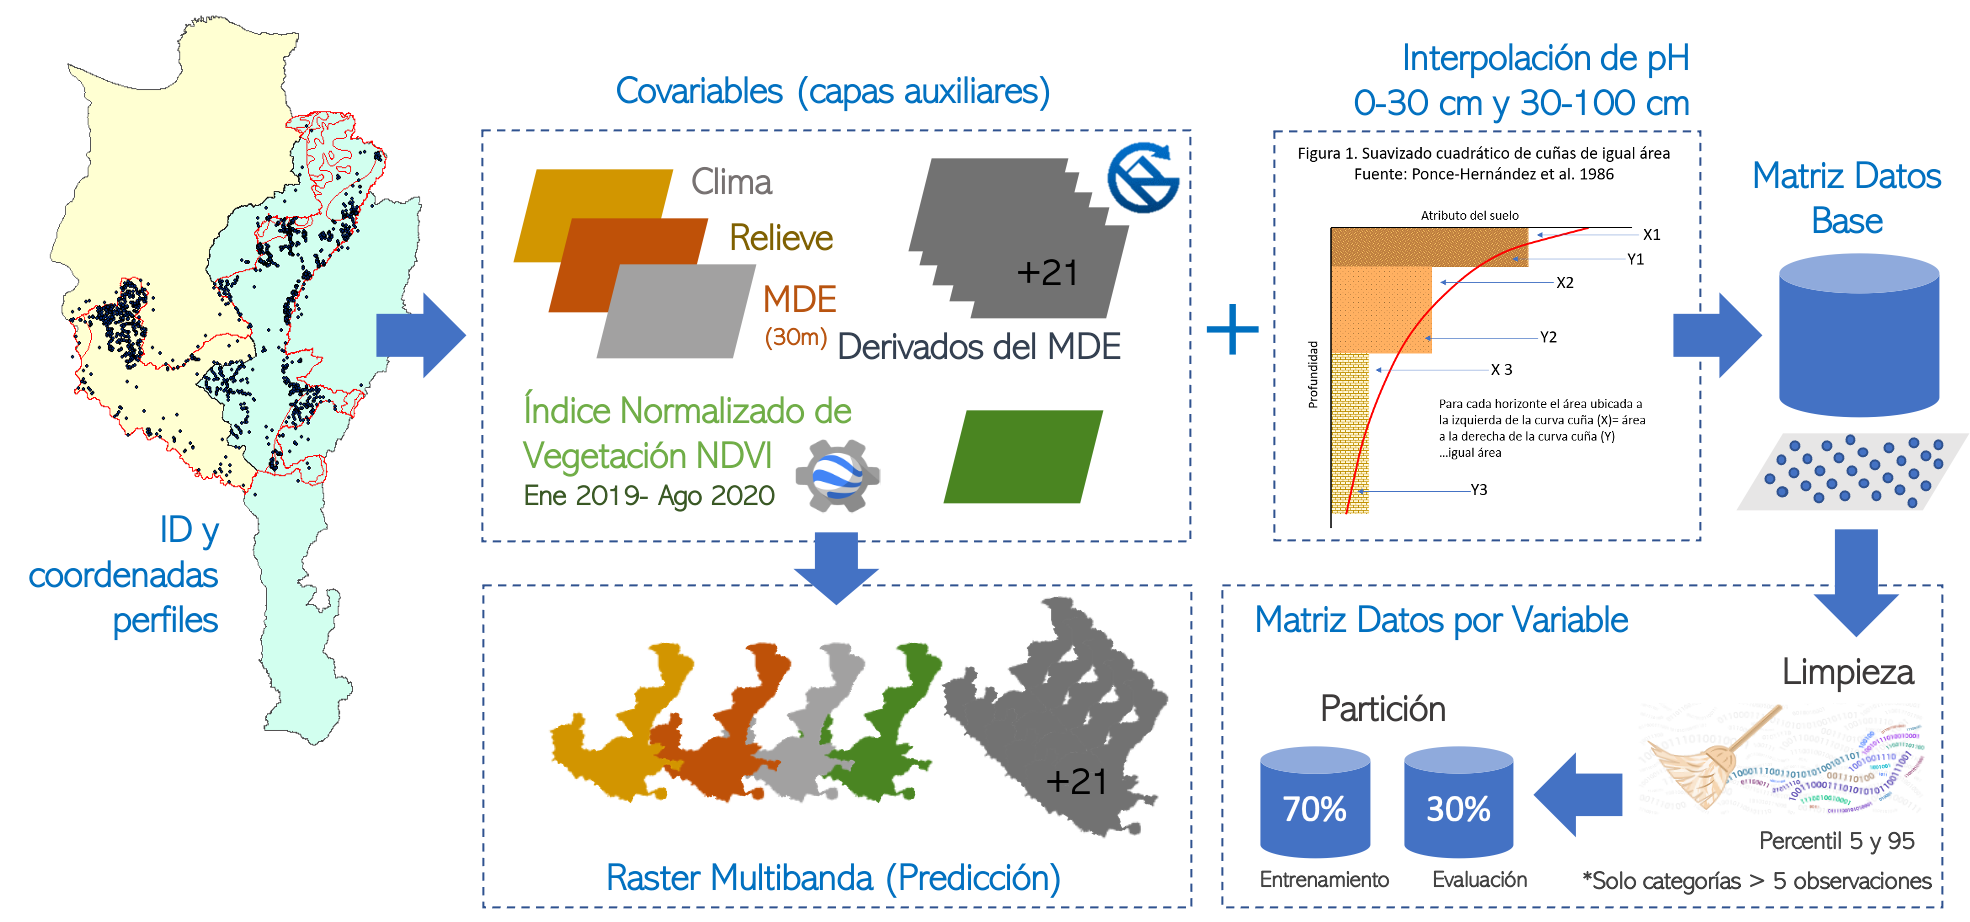
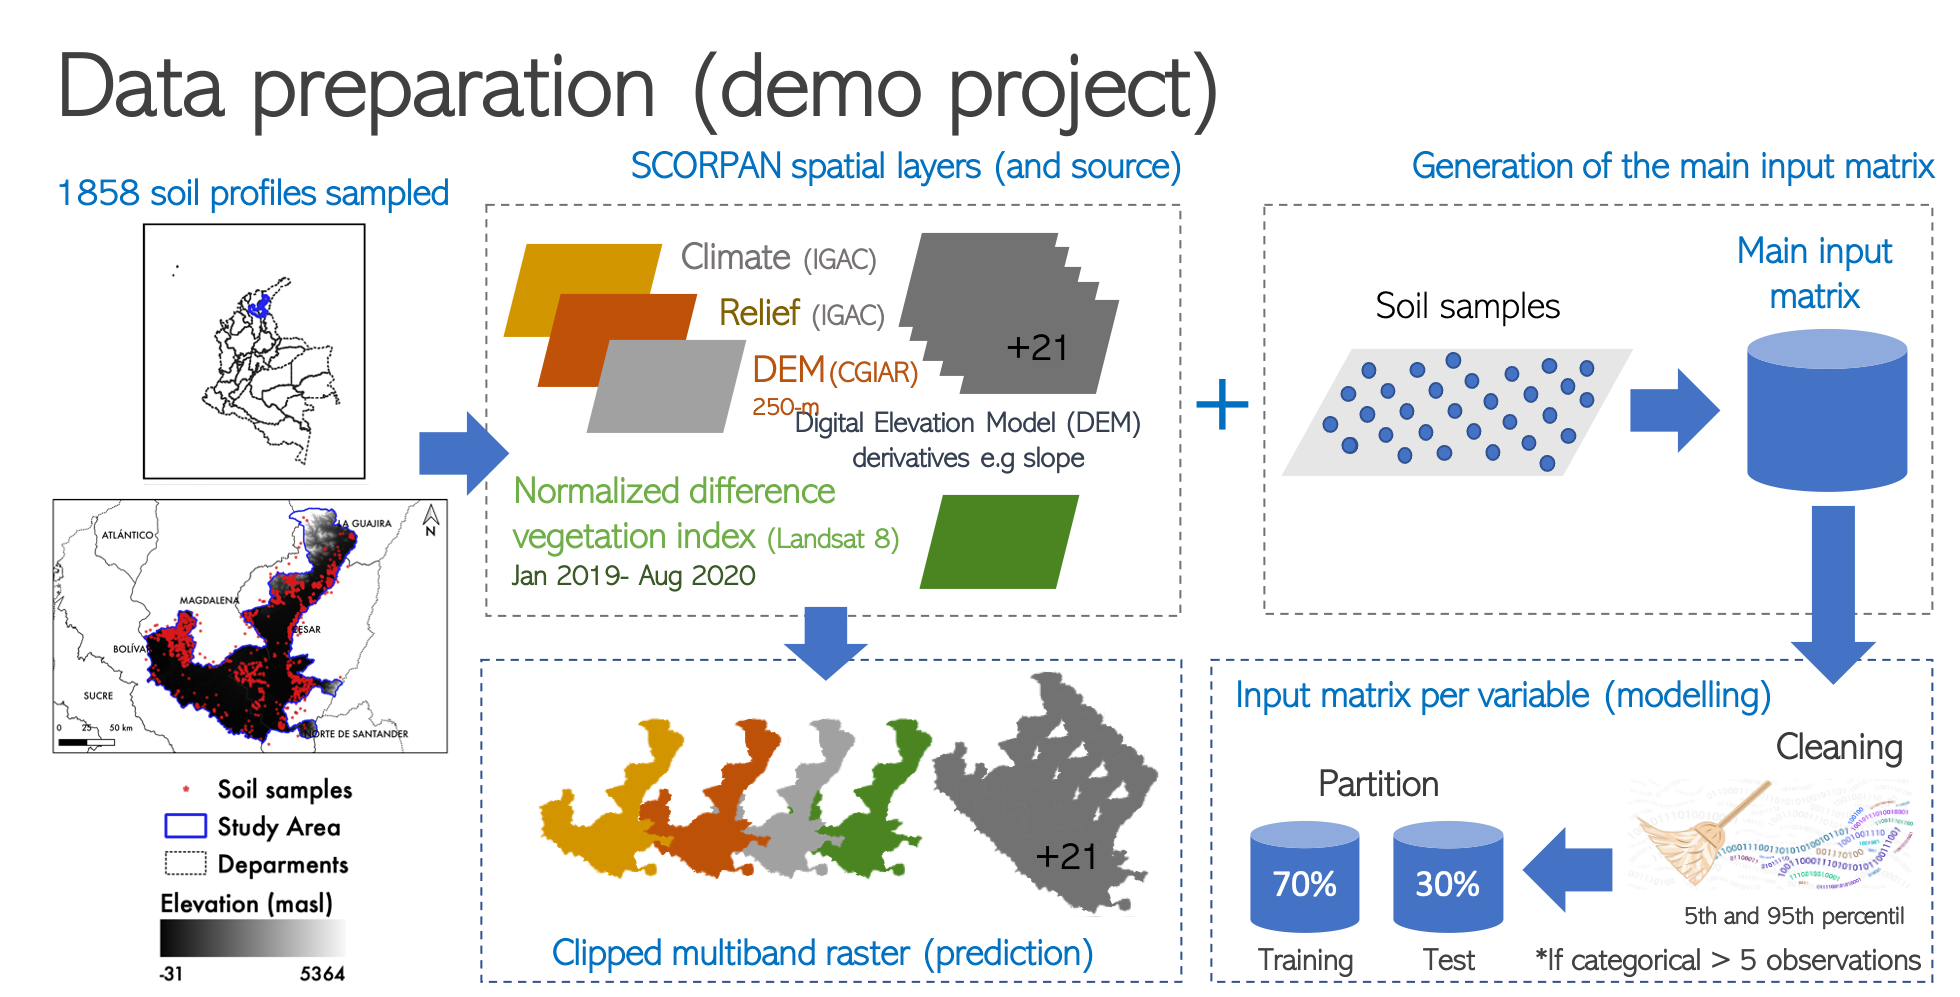
en version

diff --git a/README.md b/README.md
@@ -1,47 +1,44 @@
-# dinoSoil-toolbox: Una herramienta para optimizar procesos de MDS de la Subdirección de Agrología
+# dinoSoil-toolbox: A tool for optimising Digital Soil Mapping at the Subdirectorate of Agrology in Colombia
 
-Herramienta (ver `src/dinoSOILtoolbox.R`) basada en tecnología de la información para ejecutar y optimizar procesos para le mapeo digital de suelos (MDS).
+The toolbox (`src/dinoSOILtoolbox.R`) incoporates multiple information technologies incl. machine learning for Digital Soil Mapping (MDS).
 
-Si usted usa esta herramienta por favor citar:
+If you use this code, please cite it as follows:
 [![DOI](https://zenodo.org/badge/294735247.svg)](https://zenodo.org/badge/latestdoi/294735247)
 
-Se incluye un archivo ZIP con un proyecto ejemplo (ver `proyecto_cesarmagdalena.zip`) dentro del repositorio para ejecutar y probar las funciones de la herramienta.
-
-Este archivo se puede descargar mediante el archivo bash (`descarga.sh`)
+Download a sample project in ZIP format via.
 
 ```bash
-bash descarga.sh
+bash download.sh
 ```
 
-Alternativamente se puede descargar de la dirección:
+Alternatively, it can be downloading from:
 ```bash
 https://github.com/acocac/dinoSOIL-toolbox/blob/master/proyecto_cesarmagdalena.zip
 ```
-## Librerias
-El desarrollo fue programado en R versión 4.0.2. El administrado de librerias `pacman` es usado para configurar las librerias necesarias por modulo.
+## Libraries
+The tool uses R version 4.0.2. The `pacman` library is used to import/install required libraries.
 
-## Documentación
-Un manual paso a paso se deja en repositorio (ver `ManualUsuario_V01.pdf`) disponible para la version 0.1. 
+## Documentatipn
+A user manual related to version 0.1 (in Spanish) is provided (see `ManualUsuario_V01.pdf`). 
 
-## Agradecimientos
-El equipo de la Oficina CIAF agradece a la Subdirección de Agrología del Instituto Geográfico Agustín Codazzi (IGAC)  por su constante apoyo y validación de la herramienta. Igualmente, los desarrollos construidos son basados en ejercicios previos de la Subdirección distribuidos mediante la cooperación del proyecto I+D+i entre la Subdirección de Agrología y Oficina CIAF.
+## Acknowledgements
+The authors thanks the Sub-Directorate of Agrology of The Geographic Institute Agustín Codazzi (IGAC), for their support and technical feedback in the development of this work.
 
-## Contribuciones
-Contribuciones pueden hacerse mediante peticiones en la pestaña Pull del repositorio en GitHub. 
+## Contributions
+Contributions via pull requests are welcome. Please make sure that changes pass the unit tests. Any bugs and problems can be reported on the repo's issues page.
 
-## Trabajo futuro
-- Ejemplos de implementaciones sugeridas basados en otros desarrollos se dejan al final del código principal (ver `src/dinoSOILtoolbox.R`).
-- Generar una interfaz gráfica de la herramienta
-- Documentar la herramienta en el idioma inglés
-- Crear docker para facilitar uso de la versión
+## Future work
+- Incorporate improvements as those added as TODO at the end of the main script (ver `src/dinoSOILtoolbox.R`);
+- Generate a more user-friendly interface for non-experts;
+- Allow reproducibility of the code via Binder.
 
-## Resumen del funcionamiento de la herramienta
-Esquema de las funcionalidades de la herramienta:
+## Key feature of the toolbox
+Scheme of the main steps and outputs:
 <p align="center">
 <img src="doc/flowchart_tool.png" width="900" />
 </p>
 
-Esquema de los principales aspectos en la preparación de los datos de entrada:
+Scheme of the data selection and integration component:
 <p align="center">
 <img src="doc/datapreparation.png" width="900" />
 </p>

diff --git a/README.es-CO.md b/README.es-CO.md
@@ -1,0 +1,47 @@
+# dinoSoil-toolbox: Una herramienta para optimizar procesos de MDS de la Subdirección de Agrología
+
+Herramienta (ver `src/dinoSOILtoolbox.R`) basada en tecnología de la información para ejecutar y optimizar procesos para le mapeo digital de suelos (MDS).
+
+Si usted usa esta herramienta por favor citar:
+[![DOI](https://zenodo.org/badge/294735247.svg)](https://zenodo.org/badge/latestdoi/294735247)
+
+Se incluye un archivo ZIP con un proyecto ejemplo (ver `proyecto_cesarmagdalena.zip`) dentro del repositorio para ejecutar y probar las funciones de la herramienta.
+
+Este archivo se puede descargar mediante el archivo bash (`descarga.sh`)
+
+```bash
+bash download.sh
+```
+
+Alternativamente se puede descargar de la dirección:
+```bash
+https://github.com/acocac/dinoSOIL-toolbox/blob/master/proyecto_cesarmagdalena.zip
+```
+## Librerias
+El desarrollo fue programado en R versión 4.0.2. El administrado de librerias `pacman` es usado para configurar las librerias necesarias por modulo.
+
+## Documentación
+Un manual paso a paso se deja en repositorio (ver `ManualUsuario_V01.pdf`) disponible para la version 0.1. 
+
+## Agradecimientos
+El equipo de la Oficina CIAF agradece a la Subdirección de Agrología del Instituto Geográfico Agustín Codazzi (IGAC)  por su constante apoyo y validación de la herramienta. Igualmente, los desarrollos construidos son basados en ejercicios previos de la Subdirección distribuidos mediante la cooperación del proyecto I+D+i entre la Subdirección de Agrología y Oficina CIAF.
+
+## Contribuciones
+Contribuciones pueden hacerse mediante peticiones en la pestaña Pull del repositorio en GitHub. 
+
+## Trabajo futuro
+- Ejemplos de implementaciones sugeridas basados en otros desarrollos se dejan al final del código principal (ver `src/dinoSOILtoolbox.R`).
+- Generar una interfaz gráfica de la herramienta
+- Documentar la herramienta en el idioma inglés
+- Crear docker para facilitar uso de la versión
+
+## Resumen del funcionamiento de la herramienta
+Esquema de las funcionalidades de la herramienta:
+<p align="center">
+<img src="doc/flowchart_tool.png" width="900" />
+</p>
+
+Esquema de los principales aspectos en la preparación de los datos de entrada:
+<p align="center">
+<img src="doc/datapreparation.png" width="900" />
+</p>
